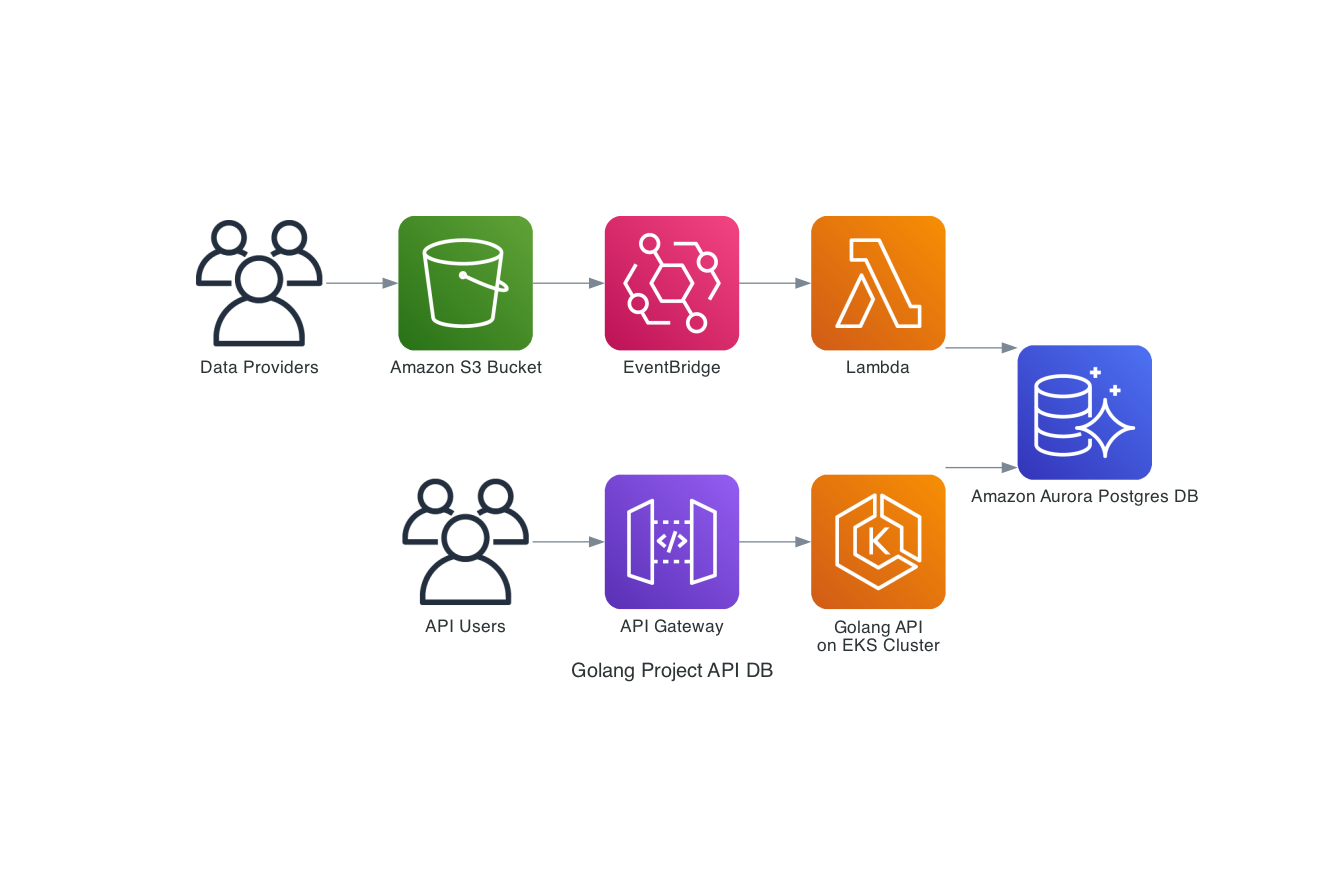
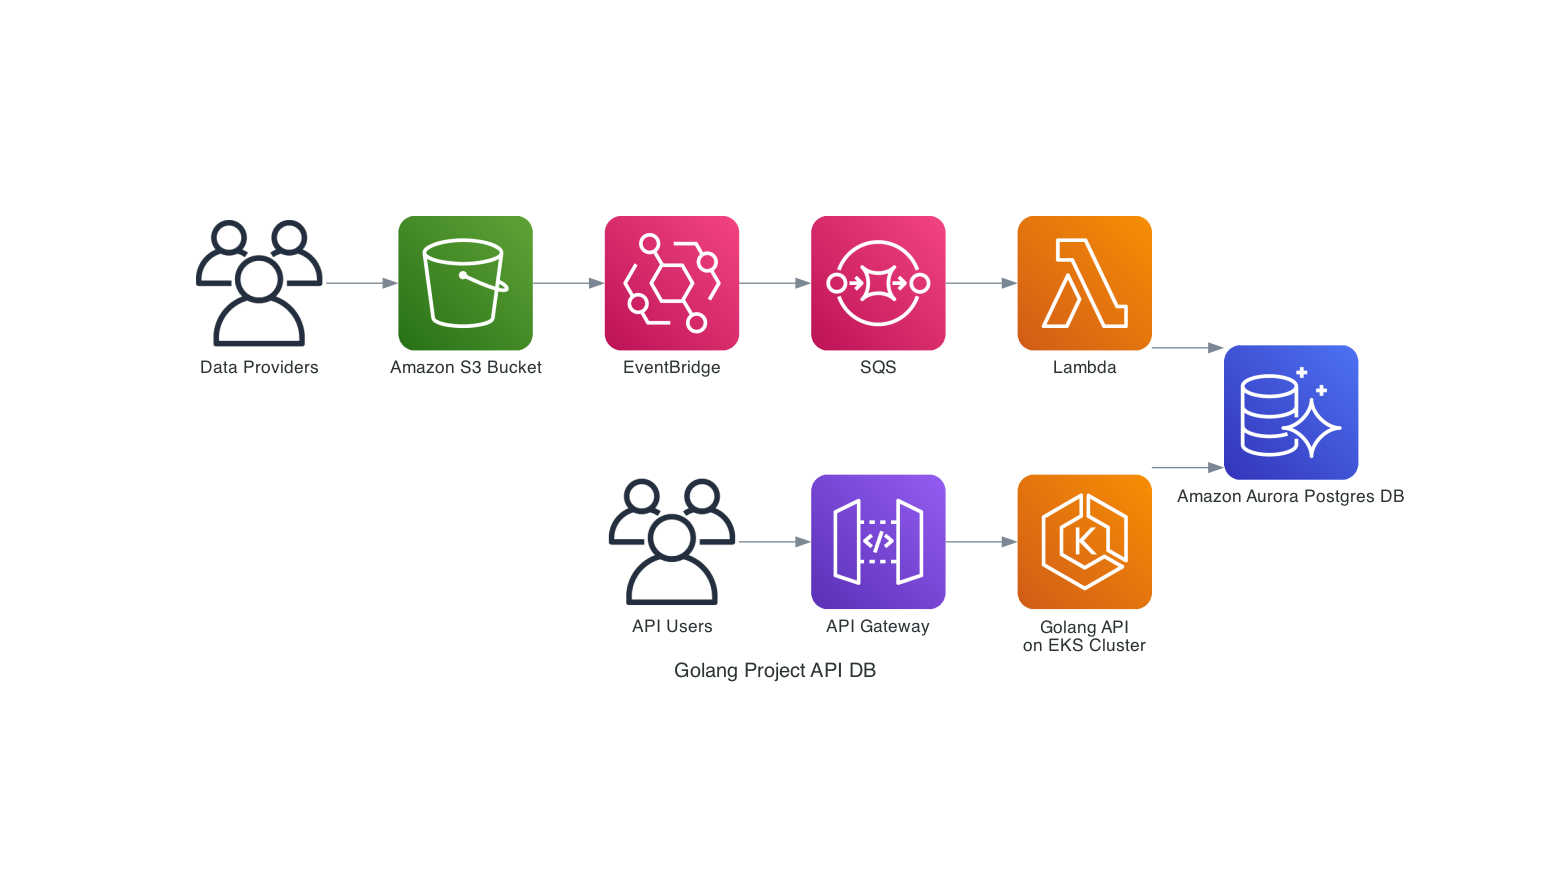
Included SQS in diagram

Changed region(s): [[0.125, 0.2466, 0.9062, 0.7705]]

diff --git a/diag.py b/diag.py
@@ -2,7 +2,7 @@ from diagrams import Diagram
 from diagrams.aws.compute import Lambda
 from diagrams.aws.database import Aurora
 from diagrams.aws.storage import S3
-from diagrams.aws.integration import Eventbridge
+from diagrams.aws.integration import Eventbridge,SQS
 from diagrams.aws.compute import EKS
 from diagrams.aws.network import APIGateway
 from diagrams.aws.general import Users
@@ -14,6 +14,7 @@ with Diagram("Golang Project API DB", show=True):
     aurora_db = Aurora("Amazon Aurora Postgres DB")
     s3_bucket = S3("Amazon S3 Bucket")
     event_bridge = Eventbridge("EventBridge")
+    sqs = SQS("SQS")
     lambda_function = Lambda("Lambda")
 
     usr = Users("API Users")
@@ -21,7 +22,8 @@ with Diagram("Golang Project API DB", show=True):
 
     provider >> s3_bucket
     s3_bucket >> event_bridge
-    event_bridge >> lambda_function
+    event_bridge >> sqs
+    sqs >> lambda_function
     lambda_function >> aurora_db
 
     usr >> gateway >> EKS_cluster >> aurora_db
